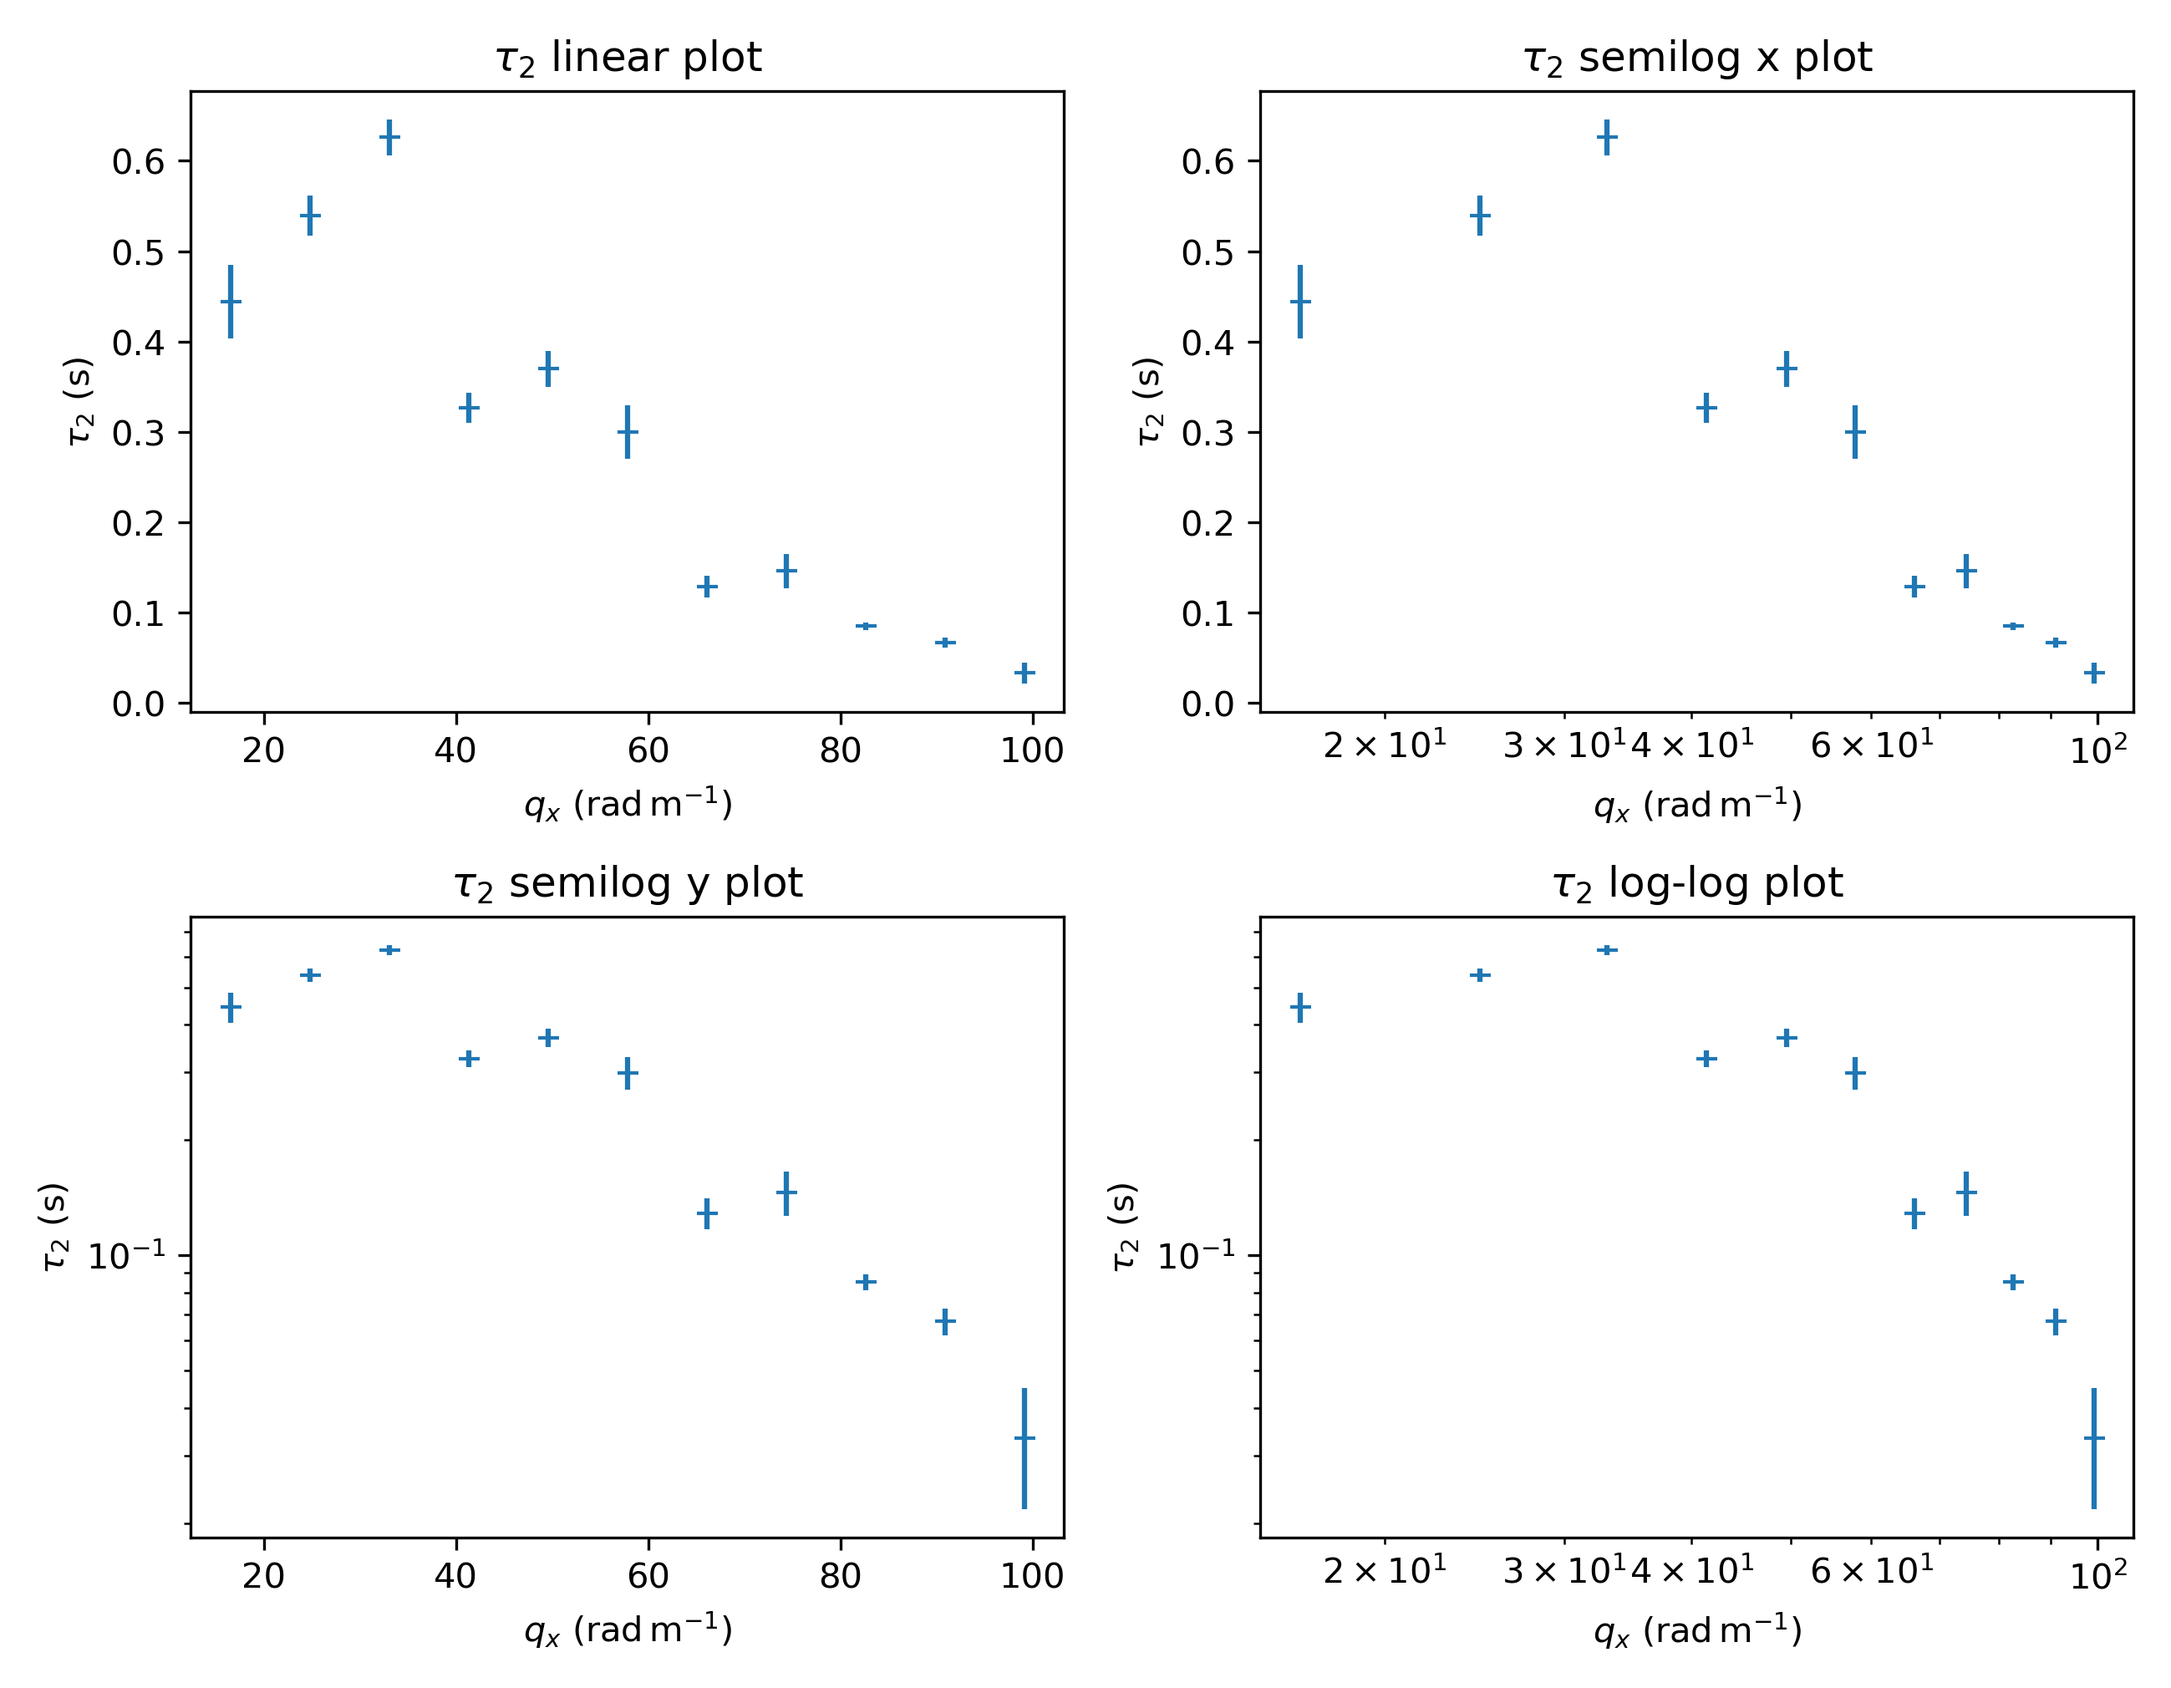
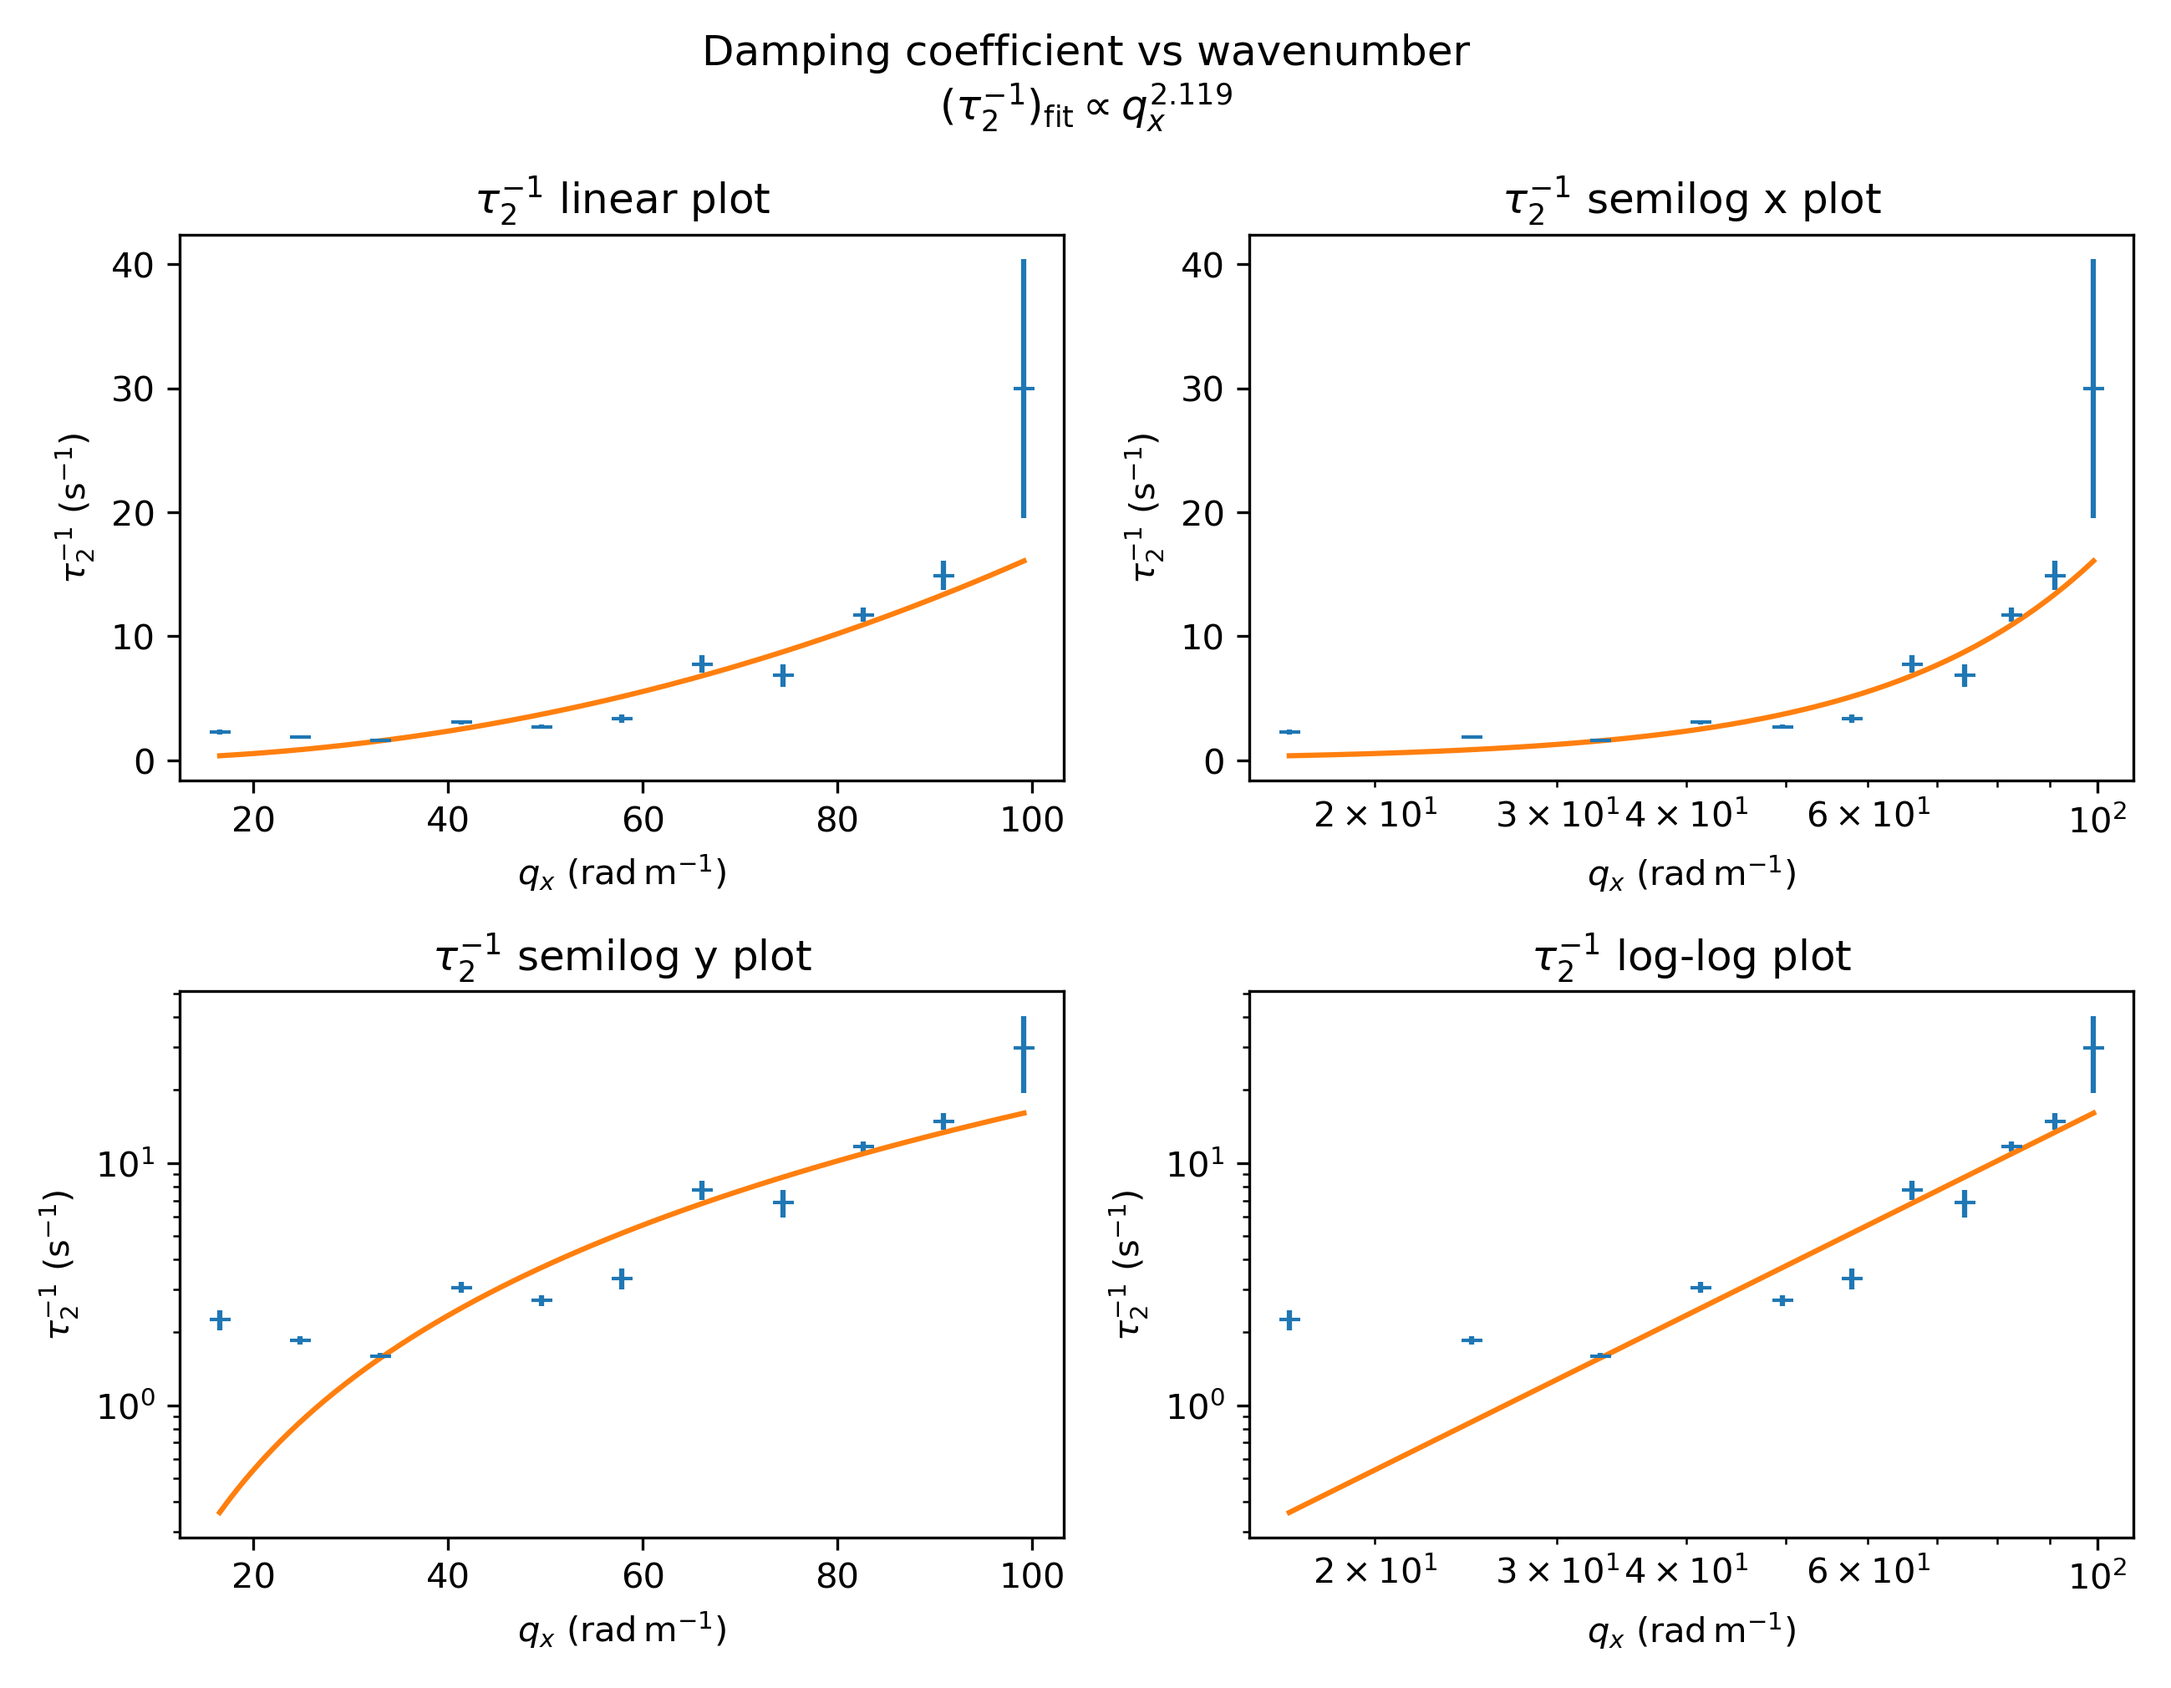
try2_taumodel: fit tau2 vs q_x with a power law

diff --git a/plot/try2_taumodel_xaxis.py b/plot/try2_taumodel_xaxis.py
@@ -52,6 +52,8 @@ print(f'frame_interval = {frame_interval} s')
 print(f'wavenumber_factor = {wavenumber_factor}')
 
 wavenumber_space = wavenumber_factor * try2_config[:, 1]
+wavenumber_space_log = np.log(wavenumber_space)
+wavenumber_logspace_dense = np.geomspace(wavenumber_space.min(), wavenumber_space.max(), 200)
 
 c1 = try2_fit[:, 0]
 c1av = np.mean(c1)
@@ -89,6 +91,19 @@ print(np.square(np.diagonal(tau2pcov)))
 tau2_err_frac = try2_fit[:, 7] / try2_fit[:, 3]
 damping_physical = np.reciprocal(tau2_physical)
 damping_err_physical = tau2_err_frac * damping_physical
+damping_log = np.log(damping_physical)
+damping_log_err = tau2_err_frac
+first_damping_fit_index = 2
+dampingpopt, dampingpcov = curve_fit(linear_func,
+                                     wavenumber_space_log[first_damping_fit_index:],
+                                     damping_log[first_damping_fit_index:],
+                                     sigma=damping_log_err[first_damping_fit_index:],
+                                     jac=linear_jac)
+damping_wavenum_exp, damping_wavenum_coeff_log = tuple(dampingpopt)
+damping_wavenum_coeff = np.exp(damping_wavenum_coeff_log)
+damping_power_fit = damping_wavenum_coeff * np.power(wavenumber_logspace_dense, damping_wavenum_exp)
+print('damping power =', damping_wavenum_exp)
+print('damping power coeff =', damping_wavenum_coeff)
 
 
 figwidth_cm = 22
@@ -138,6 +153,7 @@ for axdampingrow in axdampings:
     for axdampingcell in axdampingrow:
         axdampingcell.errorbar(wavenumber_space, damping_physical, damping_err_physical,
                                fmt='_', linestyle='')
+        axdampingcell.plot(wavenumber_logspace_dense, damping_power_fit)
         axdampingcell.set_xlabel(f'$q_x$ (${wavenumber_unit}$)')
         axdampingcell.set_ylabel('$\\tau_2^{-1}$ ($\\mathrm{s}^{-1}$)')
 for axdampinglogy in (axdampingsemilogy, axdampingloglog):
@@ -152,6 +168,9 @@ axdampinglin.set_title('$\\tau_2^{-1}$ linear plot')
 axdampingsemilogx.set_title('$\\tau_2^{-1}$ semilog x plot')
 axdampingsemilogy.set_title('$\\tau_2^{-1}$ semilog y plot')
 axdampingloglog.set_title('$\\tau_2^{-1}$ log-log plot')
+fig2.suptitle('Damping coefficient vs wavenumber\n'
+              '$(\\tau_2^{-1})_\\mathrm{fit}\\propto '
+              f'q_x^{{{damping_wavenum_exp:.4}}}$')
 fig2.set_tight_layout(True)
 
 
